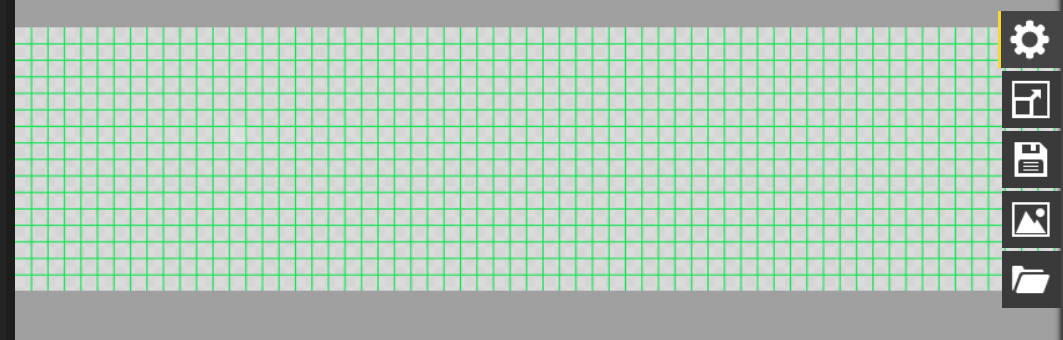
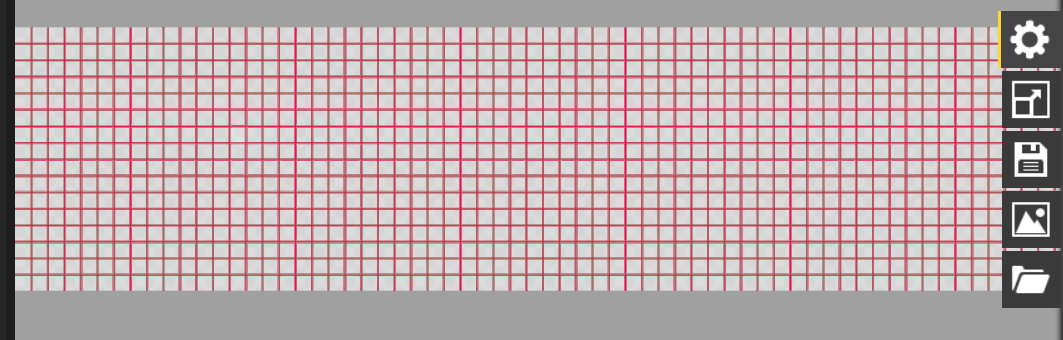
Platforms lesson: grid result picture recoloured to hot pink
Claude-Session: https://claude.ai/code/session_0163dwnT656jUnDkoJDXqKES

Changed region(s): [[0.0, 0.0882, 0.9624, 0.8529]]

diff --git a/piskel/lesson-00-three-platforms/index.html b/piskel/lesson-00-three-platforms/index.html
@@ -134,7 +134,7 @@
 <li>Click <b>Maintain aspect ratio</b> to <b>untick</b> it. While it is ticked, Piskel keeps the canvas square and changes the Height whenever you change the Width.</li>
 <li>Type <b>64</b> in <b>Width</b> and <b>16</b> in <b>Height</b>, then click the <b>Resize</b> button at the bottom of the panel. The canvas becomes a long, flat strip.</li>
 <li>Click the Resize icon again to close the panel.</li>
-<li><b>Set up the grid first.</b> Click the <b>Settings</b> icon <img src="../../assets/piskel/icon-settings.png" alt="Settings icon: a gear" width="28" height="27" style="height:1.6em;width:auto;vertical-align:middle;margin:0 .25em;border-radius:3px"> (the gear in the strip on the far right edge). A panel slides out on the <b>Misc</b> tab. Beside <b>Background</b>, click the <b>third</b> square (plain light grey). The checkerboard behind your drawing looks like a grid of its own and hides the real grid lines, so a plain background makes them stand out.<img src="../../assets/piskel/settings-background.png" alt="Settings panel, Misc tab: four Background choices, two checkerboards and two plain greys" width="230" height="76" style="display:block;max-width:100%;height:auto;margin:.5em 0;border:1px solid #ccc;border-radius:6px">Now click the <b>Grid</b> tab and set:<table><tr><th>Grid tab</th><th>Setting</th></tr><tr><td>Enable grid</td><td>Ticked</td></tr><tr><td>Grid size</td><td>First square (thinnest lines)</td></tr><tr><td>Grid spacing</td><td>First square (a line around every pixel)</td></tr><tr><td>Grid color</td><td>Hot pink (bottom-right). Green would vanish on the grass, and black or dark colours blend into the dark brown outlines.</td></tr></table><img src="../../assets/piskel/settings-grid.png" alt="Settings panel, Grid tab: Enable grid ticked, smallest Grid size, smallest Grid spacing, and a row of Grid colour swatches" width="307" height="281" style="display:block;max-width:100%;height:auto;margin:.5em 0;border:1px solid #ccc;border-radius:6px"><i>In this picture green is picked. Pick the colour in the table instead.</i> Thin lines appear on the canvas, one square per pixel. Click the gear again to close the panel. Your strip should look like this (with pink lines):<img src="../../assets/piskel/platforms-grid-result.png" alt="The 64 by 16 canvas covered in a grid of thin lines, with the Settings, Resize, Save, Export and Open icons down the right edge" width="1063" height="340" style="display:block;max-width:100%;height:auto;margin:.5em 0;border:1px solid #ccc;border-radius:6px"></li>
+<li><b>Set up the grid first.</b> Click the <b>Settings</b> icon <img src="../../assets/piskel/icon-settings.png" alt="Settings icon: a gear" width="28" height="27" style="height:1.6em;width:auto;vertical-align:middle;margin:0 .25em;border-radius:3px"> (the gear in the strip on the far right edge). A panel slides out on the <b>Misc</b> tab. Beside <b>Background</b>, click the <b>third</b> square (plain light grey). The checkerboard behind your drawing looks like a grid of its own and hides the real grid lines, so a plain background makes them stand out.<img src="../../assets/piskel/settings-background.png" alt="Settings panel, Misc tab: four Background choices, two checkerboards and two plain greys" width="230" height="76" style="display:block;max-width:100%;height:auto;margin:.5em 0;border:1px solid #ccc;border-radius:6px">Now click the <b>Grid</b> tab and set:<table><tr><th>Grid tab</th><th>Setting</th></tr><tr><td>Enable grid</td><td>Ticked</td></tr><tr><td>Grid size</td><td>First square (thinnest lines)</td></tr><tr><td>Grid spacing</td><td>First square (a line around every pixel)</td></tr><tr><td>Grid color</td><td>Hot pink (bottom-right). Green would vanish on the grass, and black or dark colours blend into the dark brown outlines.</td></tr></table><img src="../../assets/piskel/settings-grid.png" alt="Settings panel, Grid tab: Enable grid ticked, smallest Grid size, smallest Grid spacing, and a row of Grid colour swatches" width="307" height="281" style="display:block;max-width:100%;height:auto;margin:.5em 0;border:1px solid #ccc;border-radius:6px"><i>In this picture green is picked. Pick the colour in the table instead.</i> Thin lines appear on the canvas, one square per pixel. Click the gear again to close the panel. Your strip should look like this:<img src="../../assets/piskel/platforms-grid-result.png?v=2" alt="The 64 by 16 canvas covered in a grid of thin lines, with the Settings, Resize, Save, Export and Open icons down the right edge" width="1063" height="340" style="display:block;max-width:100%;height:auto;margin:.5em 0;border:1px solid #ccc;border-radius:6px"></li>
 <li><b>Quick on/off button.</b> Once the grid is set up, you can hide or show it without opening Settings. Move your mouse to the top of the <b>Preview</b> window (top-right corner, just under the <b>Create Sprite</b> button). Three small buttons appear. They stay hidden until the mouse is over them.<img src="../../assets/piskel/preview-buttons.png" alt="Three buttons above the Preview window, under Create Sprite: 1x, a grid symbol, and an arrow" width="245" height="107" style="display:block;max-width:100%;height:auto;margin:.5em 0;border:1px solid #ccc;border-radius:6px">The middle one, <b>#</b>, turns the grid off and on. Click it twice to try it, and leave the grid on.</li>
 <li>Scroll the mouse wheel over the canvas to zoom in until the strip fills the middle of the screen.</li>
 </ol>
